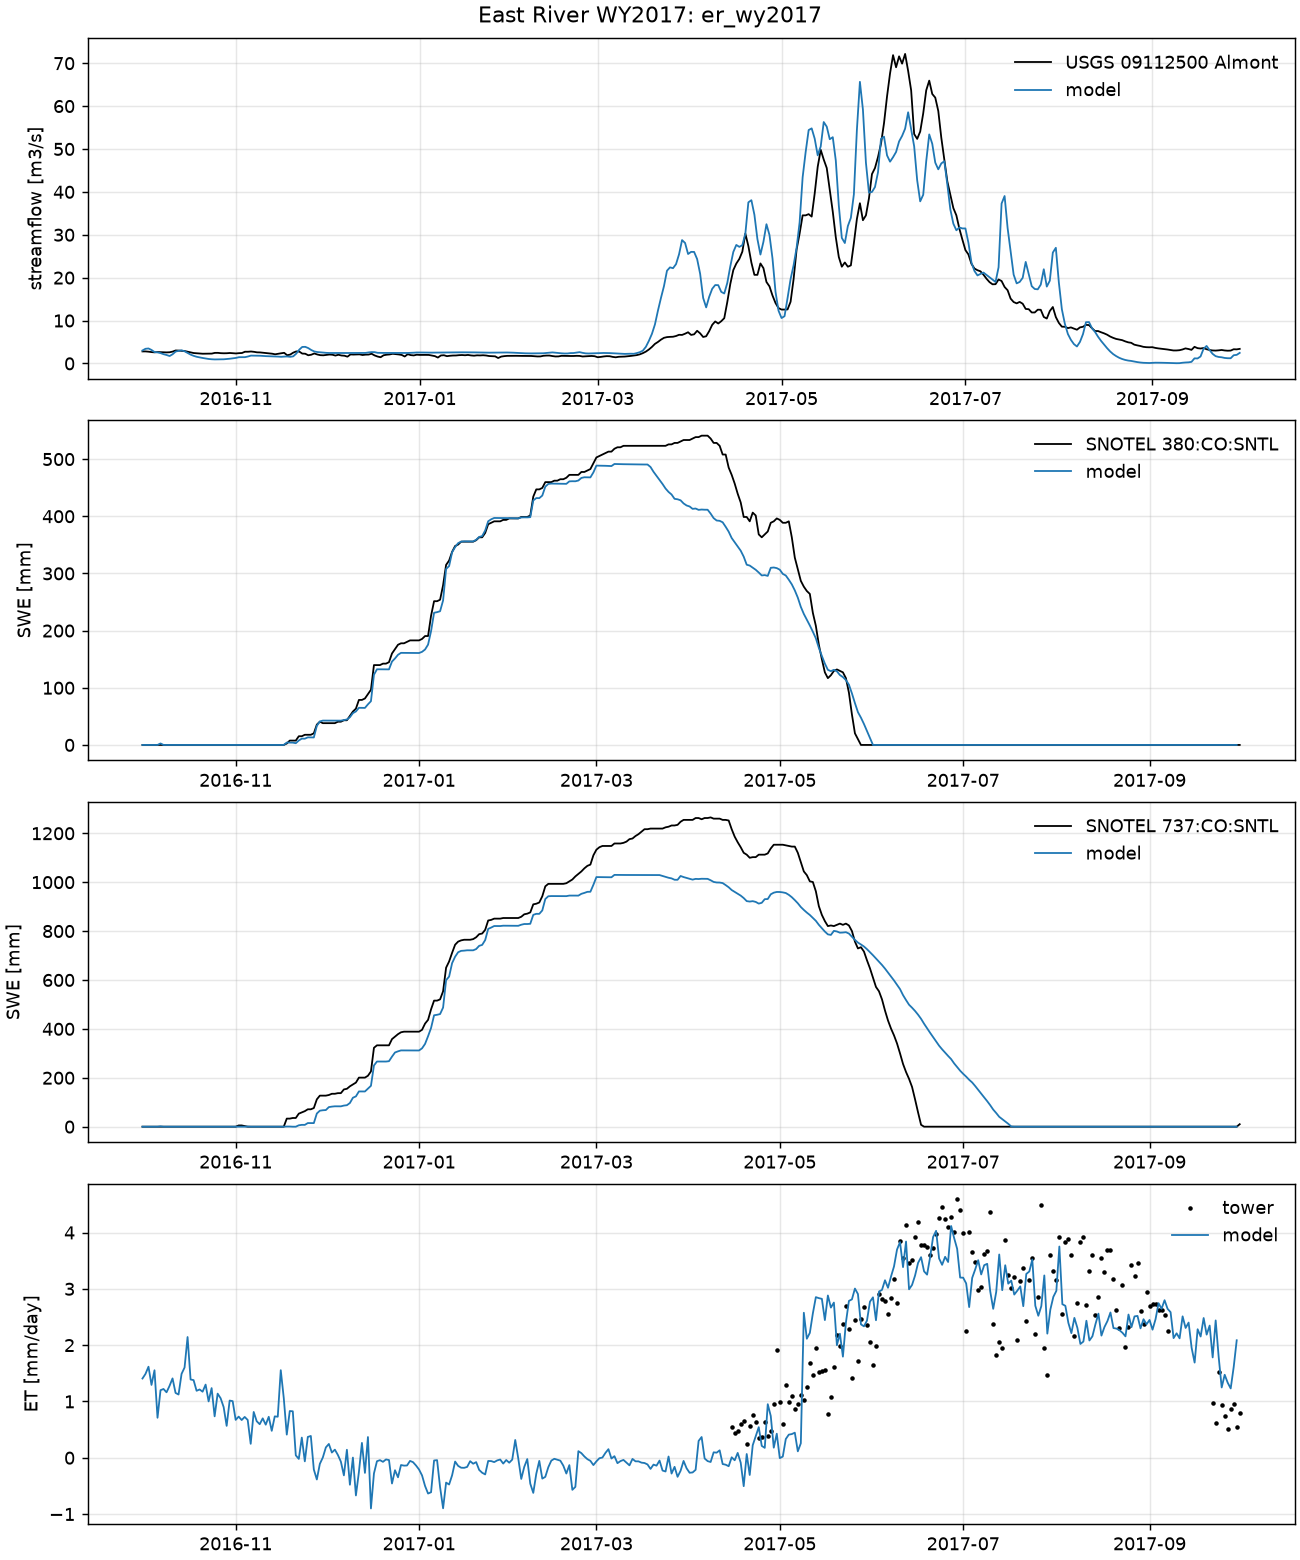
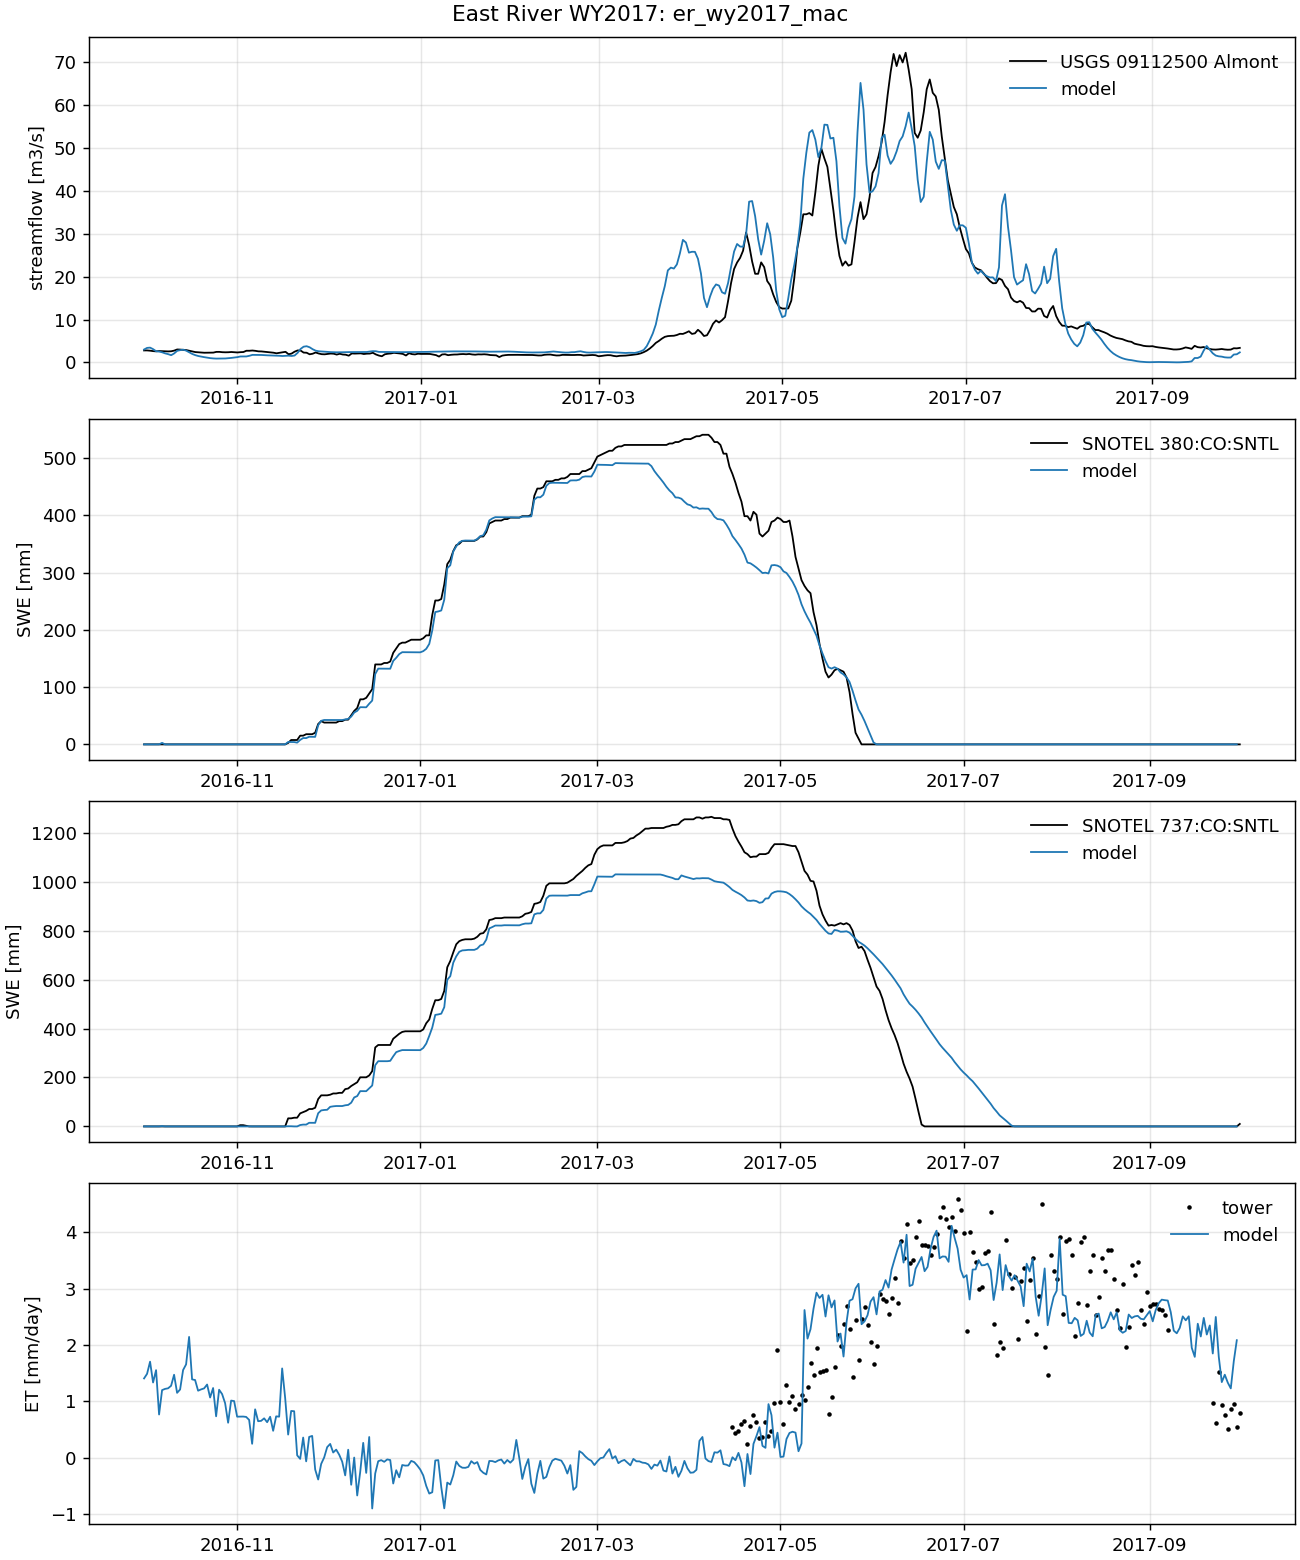
README: build, timings, scores and NetCDF notes for the east-river-2026 build
Scores and the reference figure are from today's full water year on the
pinned east-river-2026 build (commit 1a084a5b), identical to three
decimals on an Apple M-series laptop and in the Codespaces container.
Cost line updated: 312 s on one laptop core, 672 s on one process of a
4-core Codespace, with the Newton, linear and function-evaluation
counts.  Output size corrected to 3.4 GB.  Document the four --overland
schemes' equal cost, the --netcdf option's file count and compression
trade, the ParFlow version banner, and pftools' validation warnings.

diff --git a/README.md b/README.md
@@ -3,7 +3,8 @@
 A real-watershed, coupled ParFlow-CLM simulation you can run on a laptop: the East River
 headwaters of the Gunnison, Colorado (Upper Colorado basin), as a 32 by 41 by 10 subset of
 the CONUS2.1 model at 1 km, for water year 2017, with observations to score it against.
-One flat Python script holds every key.  A full year takes about five minutes on one core.
+One flat Python script holds every key.  A full year takes about five minutes on one laptop
+core, eleven on one process of a 4-core GitHub Codespace.
 
 The case is the calibrated configuration from the TFG_smoother East River test bed
 (Maxwell, 2026): CONUS2.1 static inputs, CW3E forcing with three documented bias
@@ -35,7 +36,7 @@ physics in ParFlow 3.15, and the solver settings that ran fastest on it.
 ```bash
 git clone https://github.com/reedmaxwell/east_river_pfclm.git && cd east_river_pfclm
 bash scripts/get_forcing.sh                       # the corrected WY2017 forcing, from the release assets
-python scripts/run_east_river.py                  # runs/er_wy2017/, hourly output, ~5 min
+python scripts/run_east_river.py                  # runs/er_wy2017/, hourly output, 5 min (laptop) to 11 min (Codespace)
 python scripts/evaluate.py runs/er_wy2017         # scores + figure in results/
 python scripts/pfb_to_netcdf.py runs/er_wy2017    # optional: one NetCDF per variable
 ```
@@ -55,7 +56,8 @@ depth on a few flat cells.
   at Almont (09112500), 750 km2.
 - 10 layers, 200 m total: 100, 50, 25, 12.5, 5, 2.5, 0.5, 0.3, 0.15, 0.05 m from the bottom up
   (variable dz).  The top metre holds the CONUS2.1 soil classes, below is geology.
-- Terrain-following grid, kinematic overland flow on the top patch, no-flow bottom and sides.
+- Terrain-following grid, overland flow on the top patch (kinematic wave by default; see
+  `--overland`), no-flow bottom and sides.
 
 ## Inputs and where they come from
 
@@ -110,34 +112,39 @@ hour by hour and over the year on a single core:
 | `Solver.Nonlinear.EtaChoice EtaConstant`, `EtaValue 0.01` | linear solves to a fixed relative tolerance; the adaptive (Walker2) forcing was 3 % slower here |
 | `Solver.Linear.Preconditioner PFMGOctree` at its defaults | the PFMG relaxation, cycle, and smoother settings, SMG, and the Krylov dimension were swept: within noise |
 | one-hour constant time step | CLM's coupling interval |
+| `--overland` scheme | kinematic, diffusive (lagged or implicit magnitude) and `OverlandDiffusive` cost the same: 7.9, 8.2, 7.9 and 7.9 s for ten days on one laptop core, with the same Newton count per step and quadratic convergence in every step |
 
 Reference timings and the validation scores are in the next section.
 
 ## What the case reproduces
 
-Scores of `run_east_river.py` as shipped, on ParFlow v3.15.0 (Release build, CLM, one core
-of an Apple M-series laptop), from `scripts/evaluate.py`.  Daily values, water year 2017.
+Scores of `run_east_river.py` as shipped, on the `east-river-2026` build at commit 1a084a5b
+(`parflow/master` plus the pull requests under Prerequisites; Release build, CLM, one process),
+from `scripts/evaluate.py`.  Daily values, water year 2017.  An Apple M-series laptop and the
+Codespaces container give the same scores to three decimals.
 
 | quantity | bias | RMSE | r | NSE | KGE |
 |---|---|---|---|---|---|
-| streamflow, East River at Almont 09112500 [m3/s] | +1.5 | 7.1 | 0.91 | 0.82 | 0.85 |
-| streamflow, East River below Cement Creek 09112200 [m3/s] | +1.4 | 6.4 | 0.93 | 0.84 | 0.86 |
-| streamflow, Slate River above Baxter Gulch [m3/s] | -1.3 | 3.7 | 0.90 | 0.75 | 0.61 |
-| SWE, Butte SNOTEL 380 [mm], whole year | -16 | 38 | 0.99 | 0.97 | 0.86 |
-| SWE, Butte SNOTEL 380 [mm], melt season (WY days 180-300) | -32 | 60 | 1.00 | 0.92 | 0.70 |
+| streamflow, East River at Almont 09112500 [m3/s] | +1.3 | 7.0 | 0.91 | 0.82 | 0.86 |
+| streamflow, East River below Cement Creek 09112200 [m3/s] | +1.3 | 6.3 | 0.93 | 0.85 | 0.87 |
+| streamflow, Slate River above Baxter Gulch [m3/s] | -1.3 | 3.7 | 0.90 | 0.75 | 0.60 |
+| SWE, Butte SNOTEL 380 [mm], whole year | -16 | 37 | 0.99 | 0.97 | 0.86 |
+| SWE, Butte SNOTEL 380 [mm], melt season (WY days 180-300) | -30 | 59 | 1.00 | 0.92 | 0.71 |
 | SWE, Schofield Pass SNOTEL 737 [mm], whole year | -28 | 130 | 0.97 | 0.93 | 0.84 |
-| SWE, Schofield Pass SNOTEL 737 [mm], melt season | +3 | 202 | 0.95 | 0.85 | 0.70 |
-| ET, Pumphouse tower [mm/day], 15 Apr to 30 Sep | -0.10 | 0.80 | 0.76 | 0.54 | 0.74 |
+| SWE, Schofield Pass SNOTEL 737 [mm], melt season | +5 | 203 | 0.95 | 0.84 | 0.70 |
+| ET, Pumphouse tower [mm/day], 15 Apr to 30 Sep | -0.04 | 0.79 | 0.76 | 0.55 | 0.75 |
 
 `results/er_wy2017_evaluation.png` shows the four series.  The observed peak at Almont is
-72 m3/s and the model's 66; the annual mean is 11.9 against 13.4 m3/s.  Schofield Pass melts
+72 m3/s and the model's 65; the annual mean is 11.9 against 13.2 m3/s.  Schofield Pass melts
 out about three weeks late and peaks 20 % low: the pillow sits in a clearing and its model
 cell is forest, so part of that is representativeness, not error.  Butte melts out within a
 day of the pillow.
 
-Cost: 8,760 hourly steps in 375 s wall time on one core, 311 s of it in the nonlinear
-solver; 53,825 Newton iterations, 223,289 linear iterations, 82,300 function
-evaluations.  Hourly output for the year is about 2 GB.
+Cost: 8,760 hourly steps in 312 s wall time on one laptop core, 244 s of it in the nonlinear
+solver, and 672 s on one process of a 4-core Codespace; 52,331 Newton iterations, 219,331
+linear iterations, 78,674 function evaluations.  Hourly PFB output for the year is about
+3.4 GB in some 27,000 files; `--netcdf` writes the same fields as about 770 daily NetCDF files
+at the same cost (see Outputs).
 
 The calibrated configuration was developed on a ParFlow feature branch with two CLM
 soil-moisture-stress keys that ParFlow 3.15 does not have.  Without them the hydrograph
@@ -151,8 +158,15 @@ flux into ParFlow (`*.out.evaptrans.*`), and the single-file CLM output
 (`*.out.clm_output.NNNNN.C.pfb`: latent, longwave, sensible and ground heat fluxes, total /
 ground / soil / vegetation evaporation, transpiration, infiltration, SWE, ground temperature,
 irrigation, soil temperatures).  `scripts/pfb_to_netcdf.py` collects any of them into one
-NetCDF file per variable; `run_east_river.py --netcdf` writes NetCDF directly if ParFlow
-was built with it.
+NetCDF file per variable.
+
+`run_east_river.py --netcdf` writes NetCDF directly, if ParFlow was built with it: pressure,
+saturation, CLM's flux and the CLM fields, 24 hourly steps per file, so a water year is about
+770 files instead of 27,000, at the same I/O time as the PFB writes (0.8 against 1.1 s per ten
+days on one core).  That matters on Lustre, whose metadata servers are sensitive to file
+count.  Adding `NetCDF.Compression = True` with `NetCDF.CompressionLevel = 1` in the script
+halves the file size for about 7 % more run time; higher levels gain nothing.  Writing both
+formats costs three times the I/O of either, so pick one.
 
 `scripts/evaluate.py` scores streamflow at the gages, SWE at the two pillows, and ET at the
 tower with the conventions in its docstring (local days, the gage's CONUS2 cell, melt-season
@@ -168,7 +182,10 @@ window), and writes `results/<name>_scores.csv` and a four-panel figure.
   pressure and the CLM restart are a matched pair from the same spin-up; replace both or
   neither.
 - ParFlow silently ignores keys it does not know.  If a physics option seems to do nothing,
-  check the ParFlow version.
+  check the ParFlow version.  The banner says 3.15.0 for the `east-river-2026` build too;
+  `git -C <source> log -1` is the reliable check.
+- `pftools` prints validation warnings for the saturation-lookup and `--overland` keys it does
+  not know yet (pull requests #723 and #777).  They are harmless; the run proceeds.
 
 ## File structure
 
